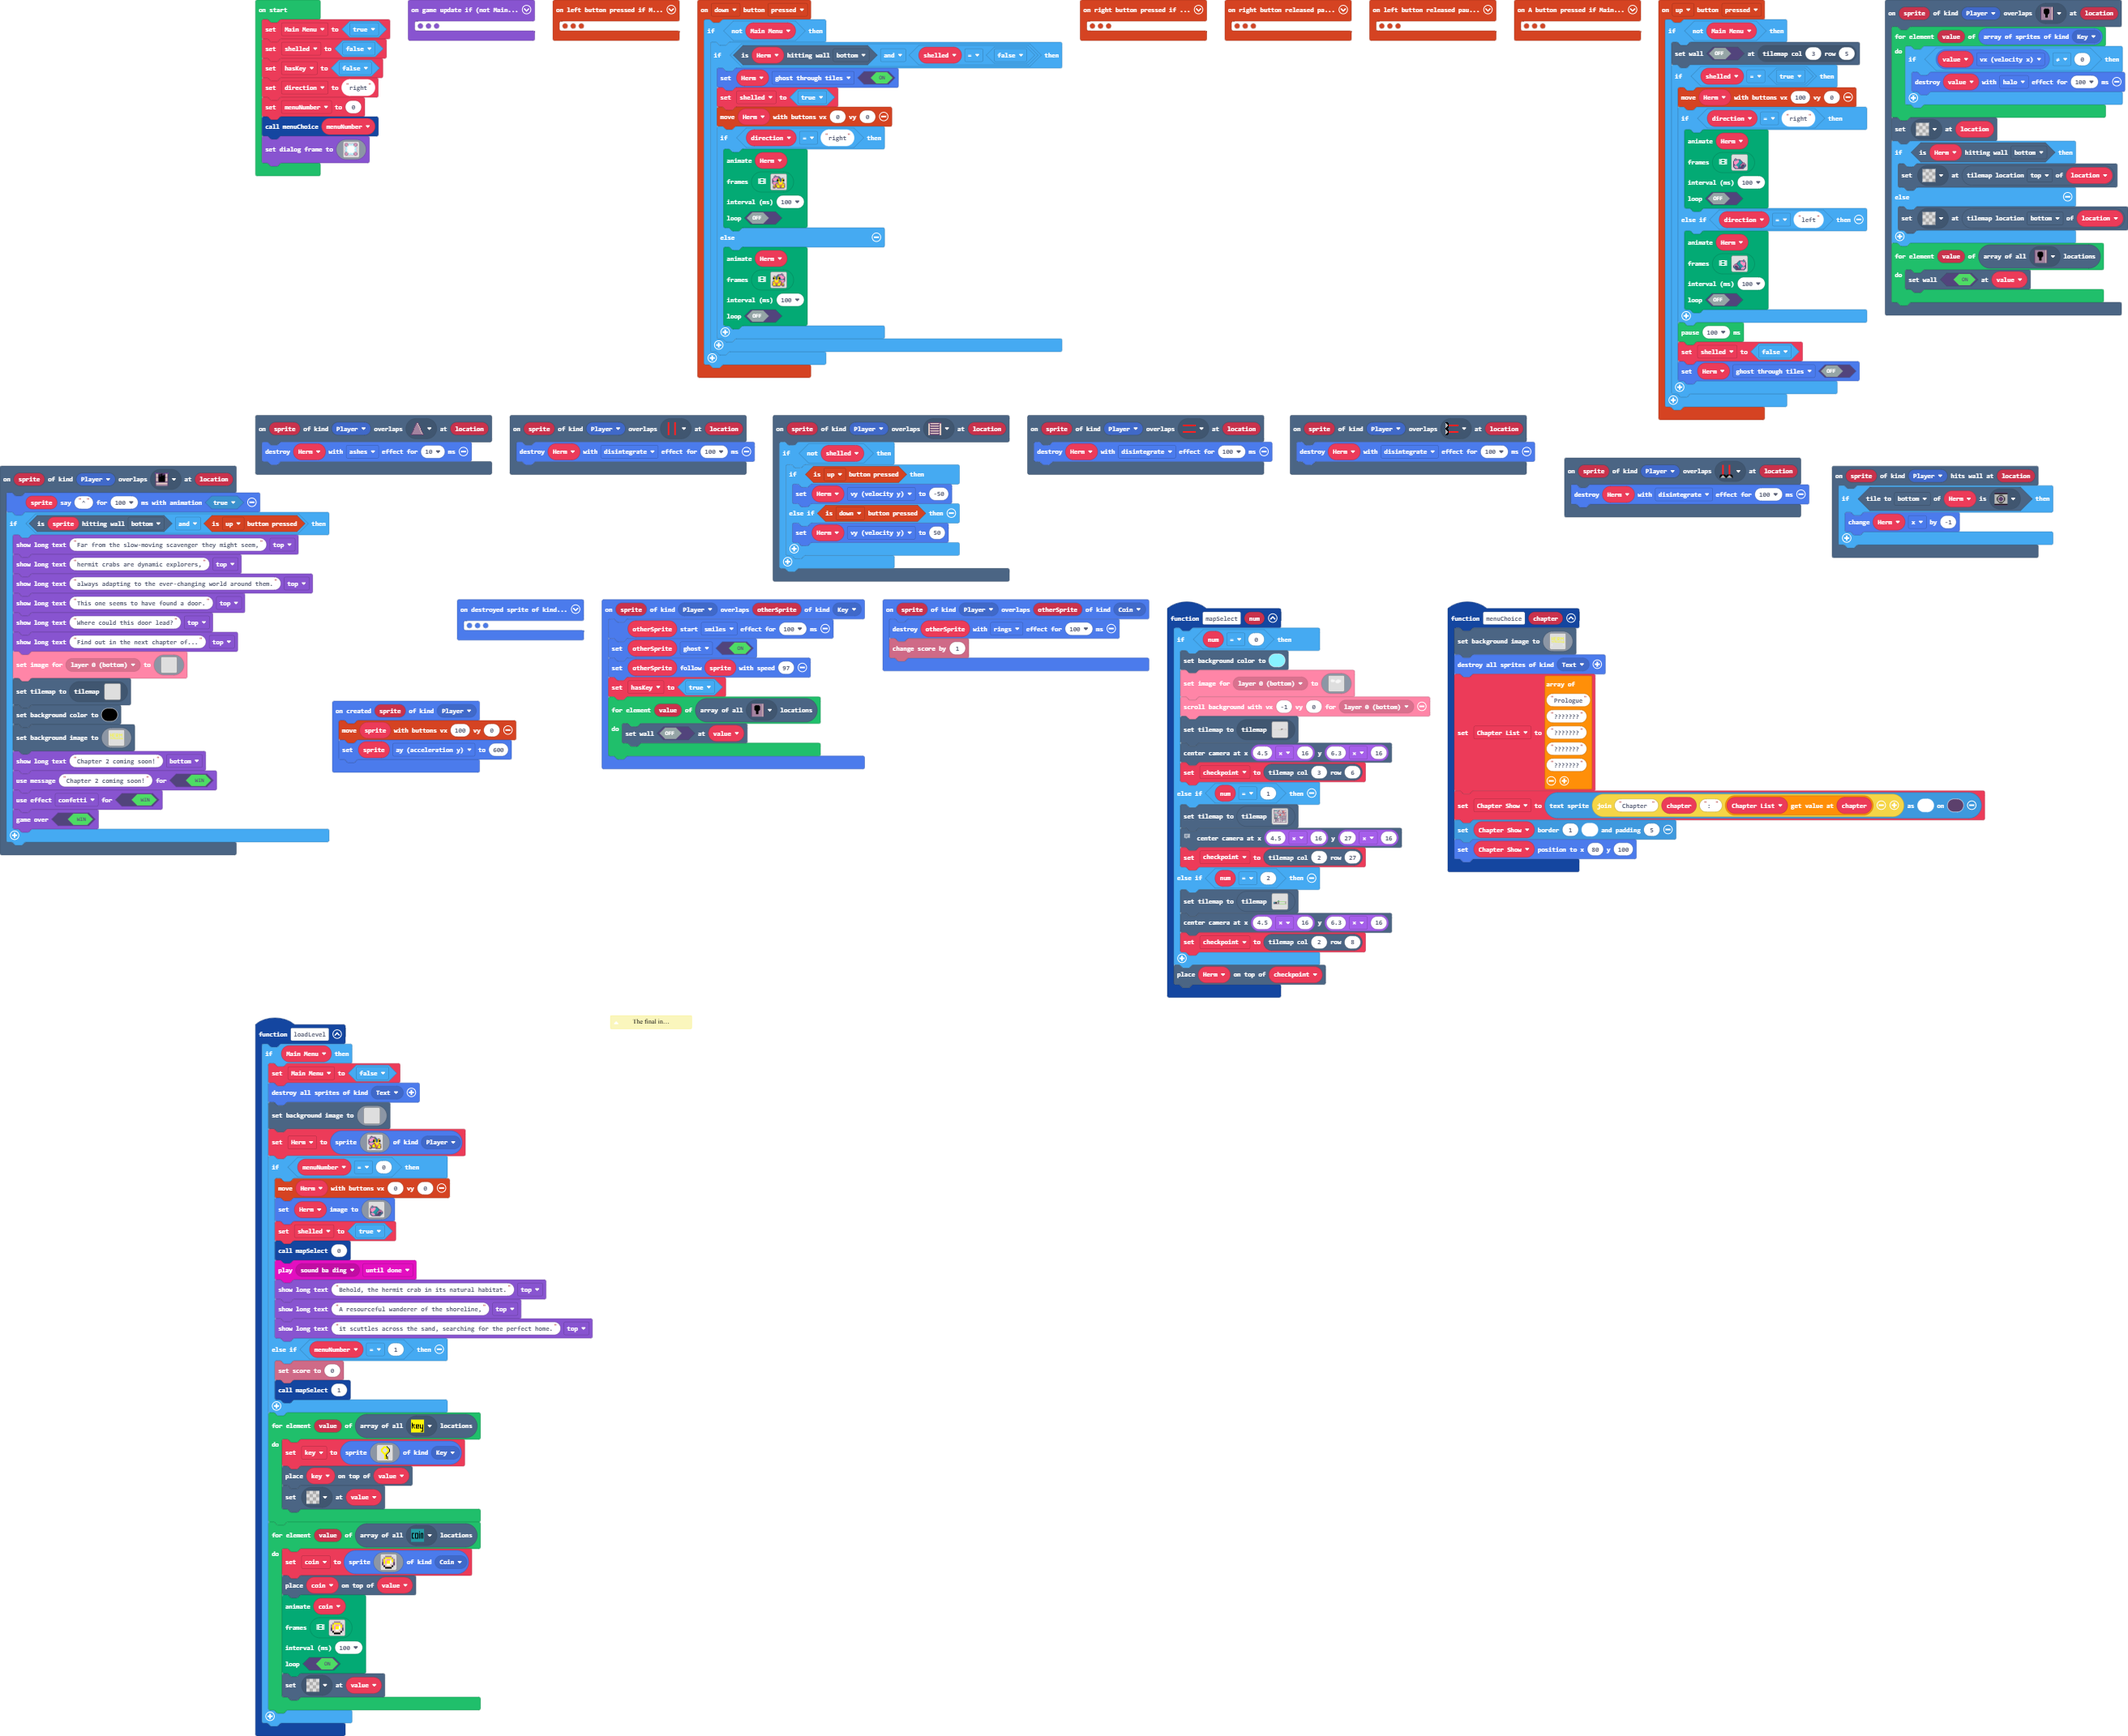
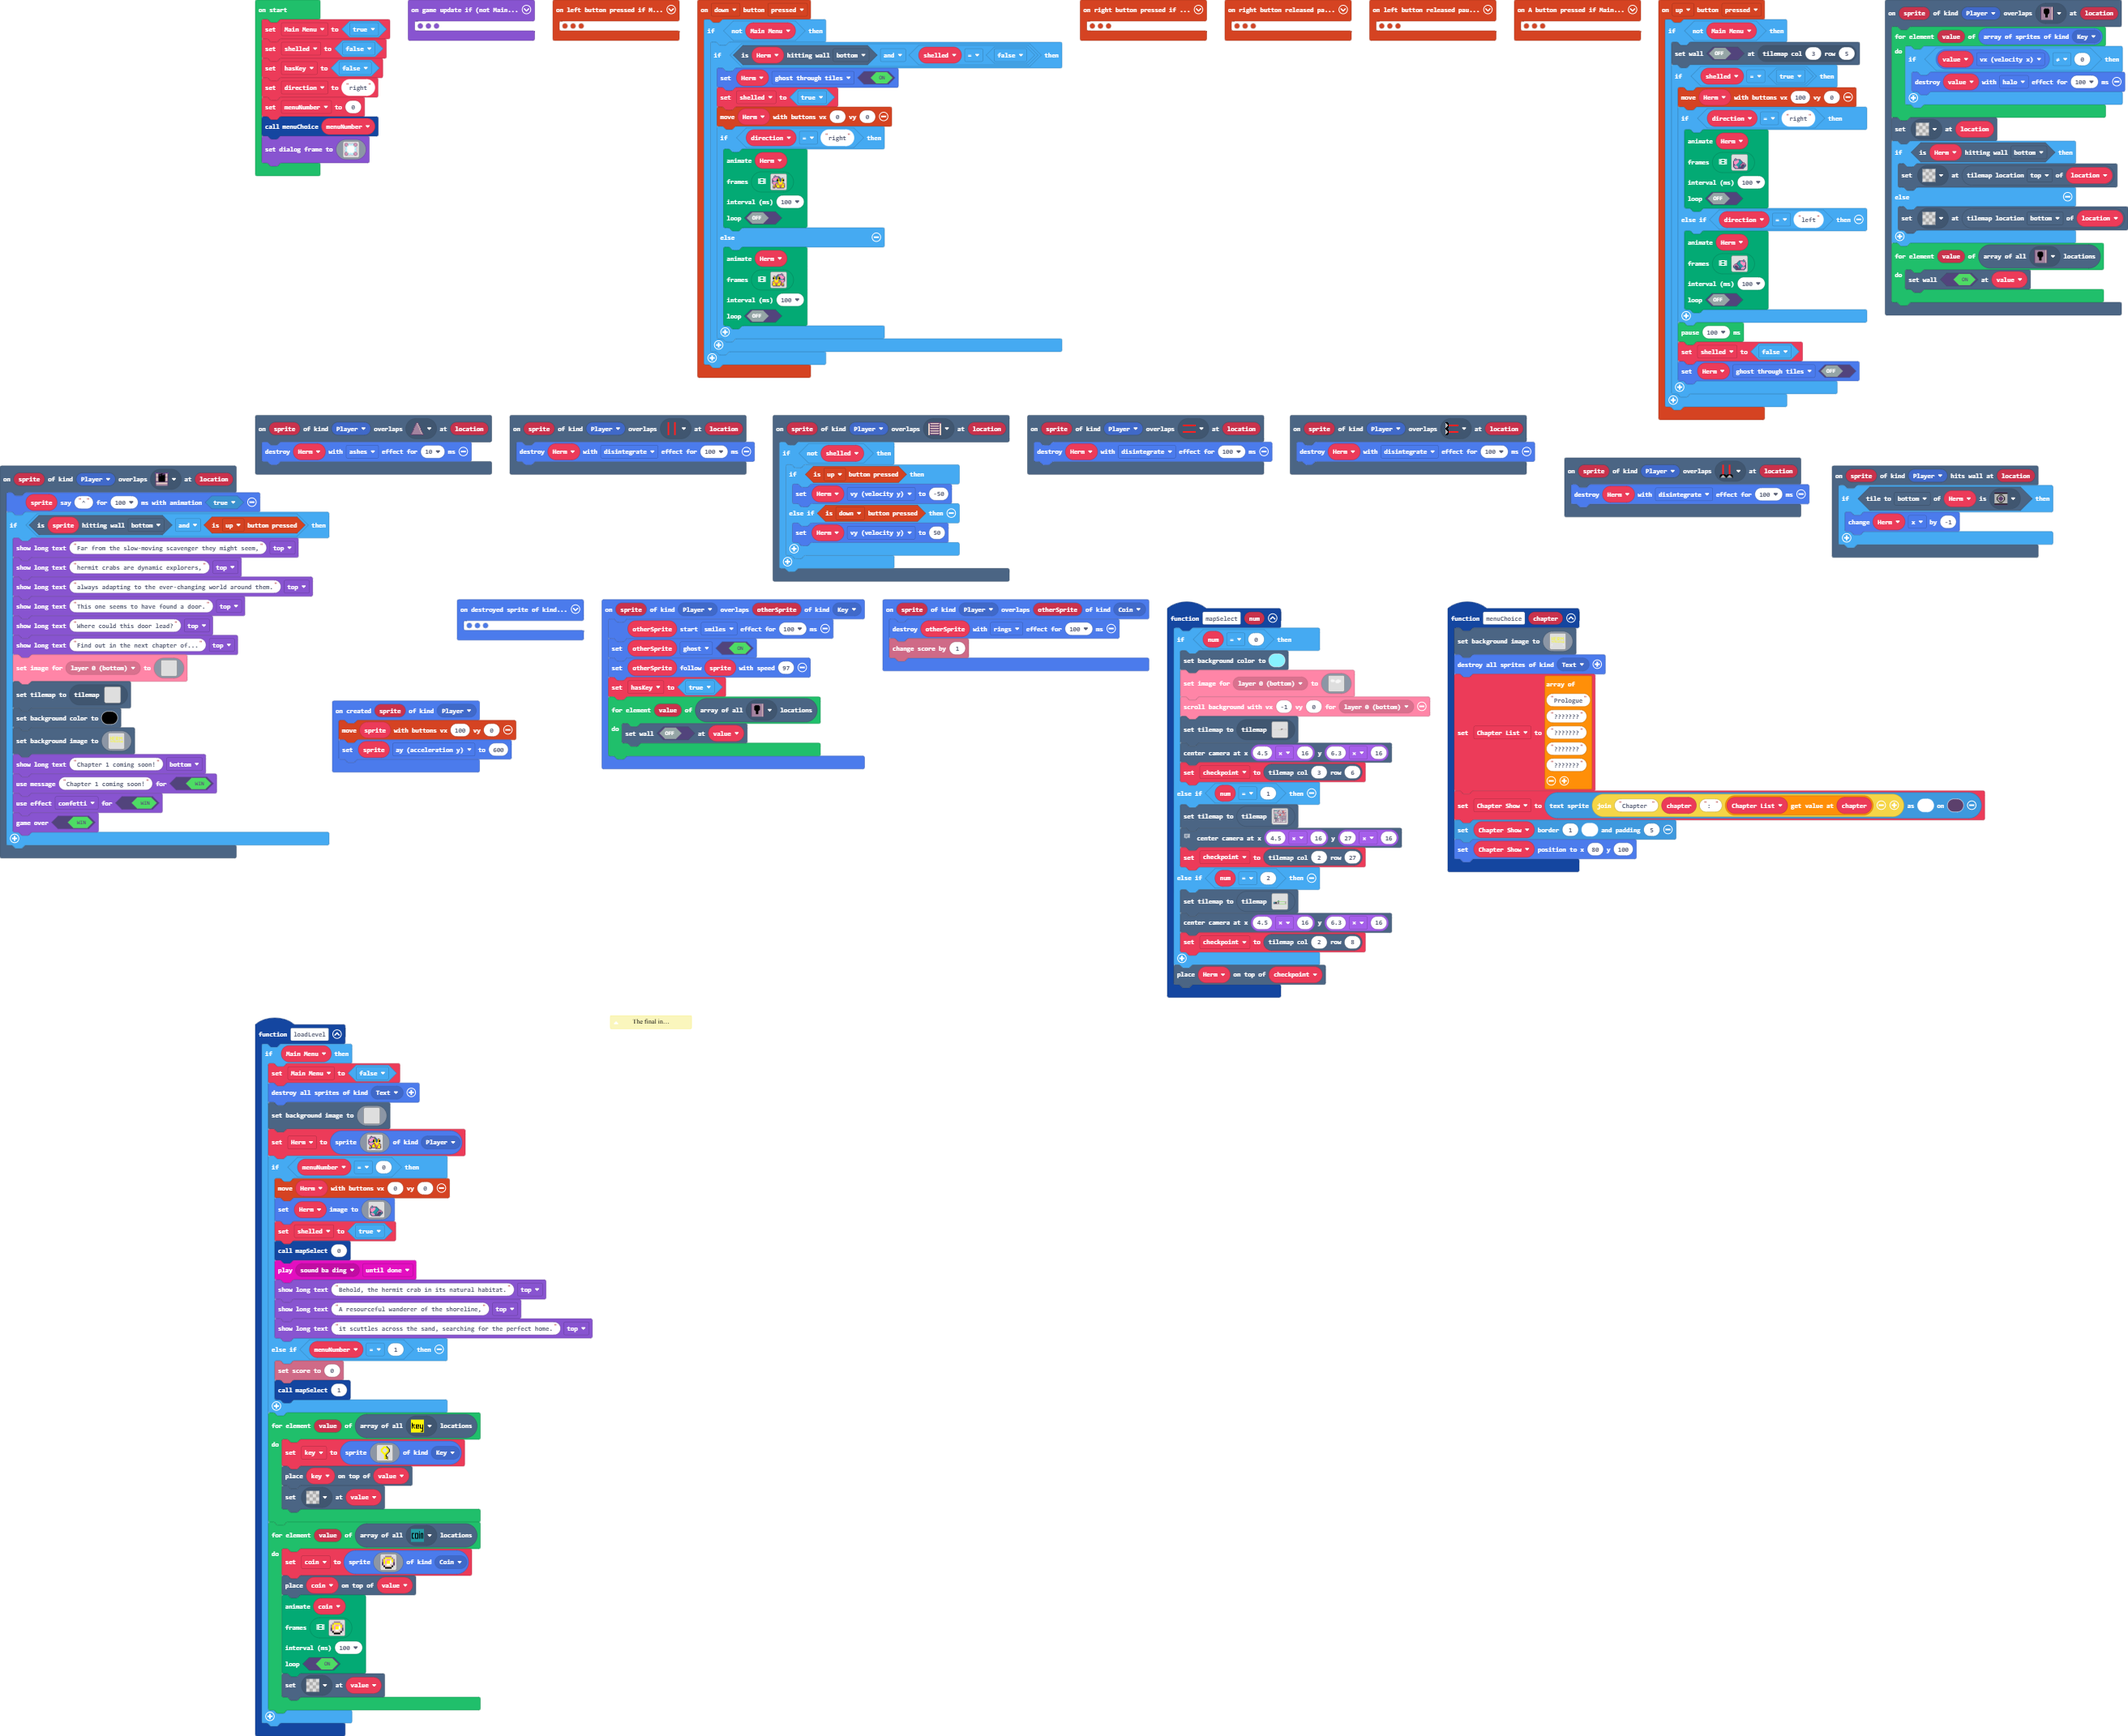
Update main.blocks, main.ts

Changed region(s): [[0.0, 0.2773, 0.1562, 0.493], [0.9371, 0.2773, 0.9684, 0.3081]]

diff --git a/main.ts b/main.ts
@@ -630,8 +630,8 @@ scene.onOverlapTile(SpriteKind.Player, sprites.dungeon.doorOpenSouth, function (
             ................................................................................................................................................................
             ................................................................................................................................................................
             `)
-        game.showLongText("Chapter 2 coming soon!", DialogLayout.Bottom)
-        game.setGameOverMessage(true, "Chapter 2 coming soon!")
+        game.showLongText("Chapter 1 coming soon!", DialogLayout.Bottom)
+        game.setGameOverMessage(true, "Chapter 1 coming soon!")
         game.setGameOverEffect(true, effects.confetti)
         game.gameOver(true)
     }
